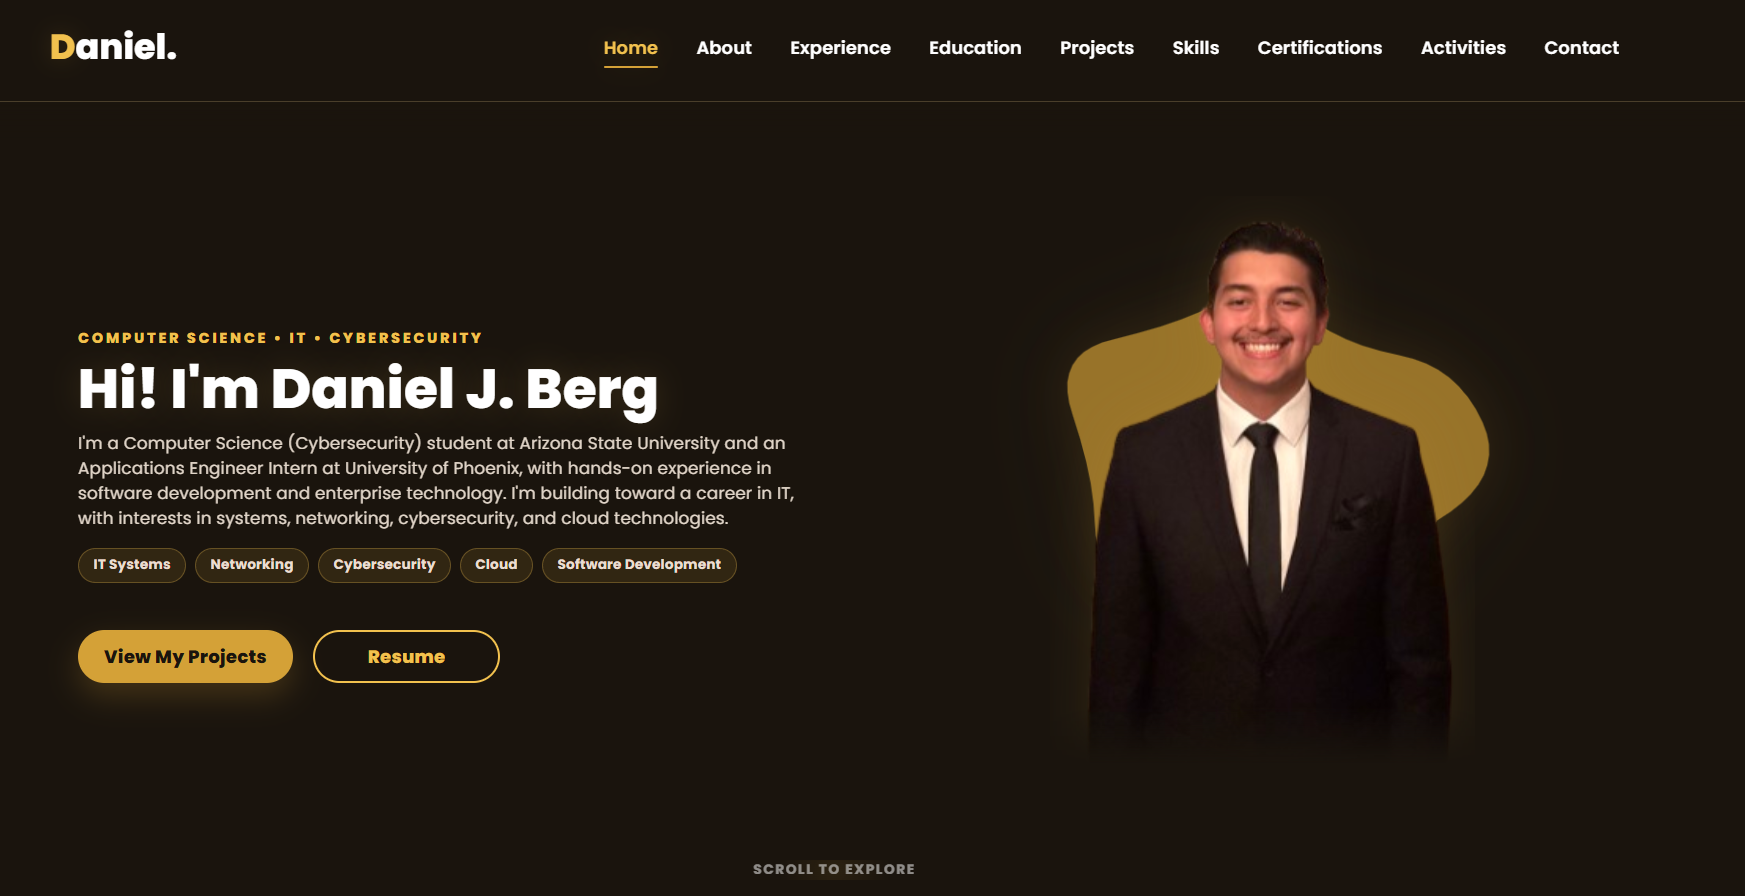
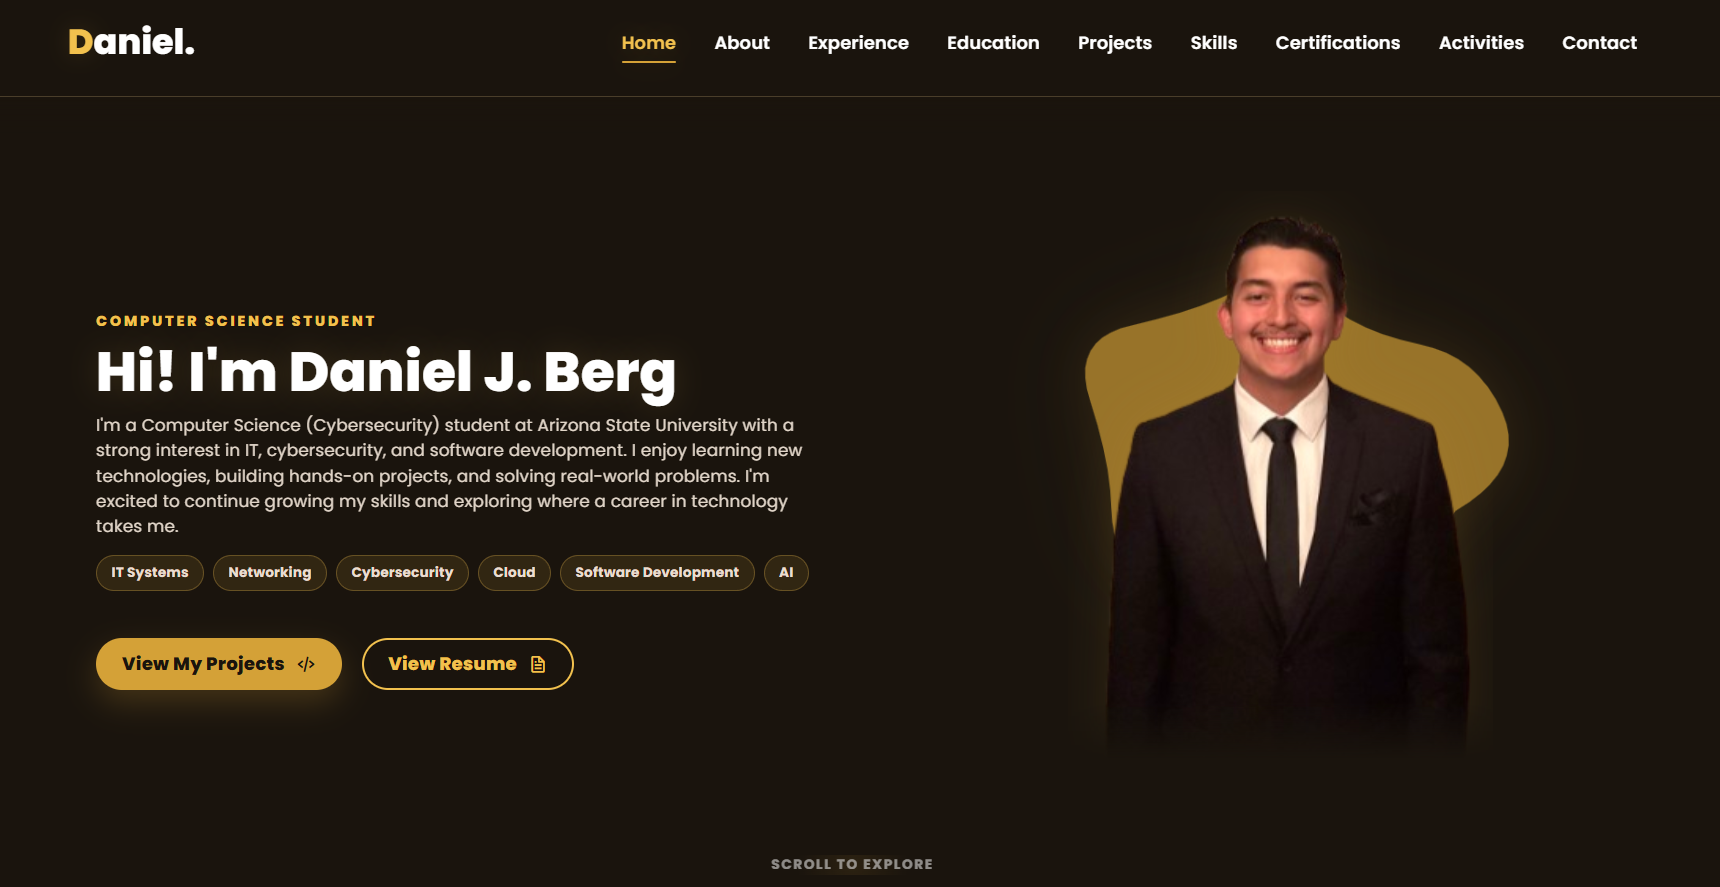
Polish portfolio styling and navigation

diff --git a/script.js b/script.js
@@ -11,11 +11,14 @@ document.addEventListener("DOMContentLoaded", () => {
 
     const menuIcon = document.getElementById("menu-icon");
     const navList = document.querySelector(".navlist");
+    const header = document.querySelector("header");
 
     const headerLinks = document.querySelectorAll('header a[href^="#"]');
     const navLinks = document.querySelectorAll("header .navlist a");
     const sections = document.querySelectorAll("section");
     const projectCards = document.querySelectorAll(".project-card");
+    let currentSection = "";
+    let navigationIntent = null;
     let menuScrollPosition = {
         top: 0,
         left: 0
@@ -67,6 +70,8 @@ document.addEventListener("DOMContentLoaded", () => {
     function openMobileMenu() {
         if (!menuIcon || !navList) return;
 
+        updateActiveSection();
+
         menuScrollPosition = {
             top: window.scrollY,
             left: window.scrollX
@@ -94,51 +99,149 @@ document.addEventListener("DOMContentLoaded", () => {
        03. ACTIVE NAVIGATION SECTION
     ========================================= */
 
-    function updateActiveSection() {
-        if (!sections.length) return;
+    function setActiveSection(sectionId) {
+        if (!sectionId) return;
 
-        let currentSection = "";
-
-        const headerHeight =
-            document.querySelector("header")?.offsetHeight || 0;
-
-        const scrollPosition =
-            window.scrollY + headerHeight + 80;
-
-        sections.forEach(section => {
-            const sectionTop = section.offsetTop;
-            const sectionBottom =
-                sectionTop + section.offsetHeight;
-
-            if (
-                scrollPosition >= sectionTop &&
-                scrollPosition < sectionBottom
-            ) {
-                currentSection = section.id;
-            }
-        });
-
-        if (!currentSection) {
-            currentSection = sections[0]?.id || "";
-        }
+        currentSection = sectionId;
 
         navLinks.forEach(link => {
-            const target = link.getAttribute("href");
-
             link.classList.toggle(
                 "active",
-                target === `#${currentSection}`
+                link.getAttribute("href") === `#${currentSection}`
             );
         });
     }
 
-    function setActiveNavLink(hash) {
-        navLinks.forEach(link => {
-            link.classList.toggle(
-                "active",
-                link.getAttribute("href") === hash
-            );
+    function getCurrentSection() {
+        if (!sections.length) return "";
+
+        const headerHeight =
+            header?.getBoundingClientRect().height || 0;
+
+        const usableViewportHeight =
+            Math.max(0, window.innerHeight - headerHeight);
+
+        const activationLine =
+            headerHeight + Math.min(120, Math.max(48, usableViewportHeight * 0.2));
+
+        let visibleSection = sections[0].id;
+
+        sections.forEach(section => {
+            if (section.getBoundingClientRect().top <= activationLine) {
+                visibleSection = section.id;
+            }
         });
+
+        return visibleSection;
+    }
+
+    function isAtNavigationTarget(target) {
+        if (!target) return false;
+
+        if (target.id === "home") {
+            return window.scrollY <= 1;
+        }
+
+        const headerHeight =
+            header?.getBoundingClientRect().height || 0;
+
+        return Math.abs(
+            target.getBoundingClientRect().top - headerHeight
+        ) <= 1;
+    }
+
+    function finishNavigationIntent() {
+        if (!navigationIntent) return;
+
+        const target = navigationIntent.target;
+        navigationIntent = null;
+        setActiveSection(target.id);
+    }
+
+    function cancelNavigationIntent() {
+        if (!navigationIntent) return;
+
+        navigationIntent = null;
+        updateActiveSection();
+    }
+
+    function updateActiveSection() {
+        if (!sections.length) return;
+
+        if (navigationIntent) {
+            setActiveSection(navigationIntent.target.id);
+
+            if (isAtNavigationTarget(navigationIntent.target)) {
+                finishNavigationIntent();
+            }
+
+            return;
+        }
+
+        setActiveSection(getCurrentSection());
+    }
+
+    function scrollToSection(target, behavior = "auto") {
+        if (!target) return;
+
+        const prefersReducedMotion =
+            window.matchMedia?.("(prefers-reduced-motion: reduce)")
+                .matches;
+
+        const scrollBehavior =
+            behavior === "smooth" && !prefersReducedMotion
+                ? "smooth"
+                : "auto";
+
+        if (target.id === "home") {
+            window.scrollTo({
+                top: 0,
+                left: 0,
+                behavior: scrollBehavior
+            });
+            return;
+        }
+
+        const headerHeight =
+            header?.getBoundingClientRect().height || 0;
+
+        const targetY =
+            target.getBoundingClientRect().top +
+            window.scrollY -
+            headerHeight;
+
+        window.scrollTo({
+            top: Math.max(0, targetY),
+            left: window.scrollX,
+            behavior: scrollBehavior
+        });
+    }
+
+    function cleanHomeUrl() {
+        if (
+            window.history?.replaceState &&
+            (window.location.pathname !== "/" || window.location.hash)
+        ) {
+            window.history.replaceState(null, "", "/");
+        }
+    }
+
+    function navigateFromCurrentUrl(behavior = "auto") {
+        const hash = window.location.hash;
+        const sectionId = hash ? hash.slice(1) : "home";
+        const target = document.getElementById(sectionId) ||
+            document.getElementById("home");
+
+        if (!target) return;
+
+        navigationIntent = null;
+
+        if (target.id === "home") {
+            cleanHomeUrl();
+        }
+
+        scrollToSection(target, behavior);
+        setActiveSection(target.id);
     }
 
     function navigateToSection(link) {
@@ -157,25 +260,23 @@ document.addEventListener("DOMContentLoaded", () => {
          */
         closeMobileMenu();
 
-        if (hash === "#home") {
-            window.scrollTo({
-                top: 0,
-                left: 0,
-                behavior: "smooth"
-            });
-        } else {
-            target.scrollIntoView({
-                behavior: "smooth",
-                block: "start",
-                inline: "nearest"
-            });
-        }
+        navigationIntent = {
+            target
+        };
 
-        if (window.history?.pushState) {
+        setActiveSection(target.id);
+
+        scrollToSection(target, "smooth");
+
+        if (target.id === "home") {
+            cleanHomeUrl();
+        } else if (
+            window.history?.pushState &&
+            window.location.hash !== hash
+        ) {
             window.history.pushState(null, "", hash);
         }
 
-        setActiveNavLink(hash);
     }
 
 
@@ -216,6 +317,18 @@ document.addEventListener("DOMContentLoaded", () => {
 
         if (event.key === "Escape") {
             closeMobileMenu();
+        }
+
+        if (
+            event.key === "ArrowUp" ||
+            event.key === "ArrowDown" ||
+            event.key === "PageUp" ||
+            event.key === "PageDown" ||
+            event.key === "Home" ||
+            event.key === "End" ||
+            event.key === " "
+        ) {
+            cancelNavigationIntent();
         }
     });
 
@@ -619,10 +732,47 @@ document.addEventListener("DOMContentLoaded", () => {
         updateActiveSection
     );
 
+    window.addEventListener("wheel", cancelNavigationIntent, {
+        passive: true
+    });
+
+    window.addEventListener("touchstart", cancelNavigationIntent, {
+        passive: true
+    });
+
+    window.addEventListener("pointerdown", cancelNavigationIntent, {
+        passive: true
+    });
+
+    window.addEventListener("scrollend", () => {
+        if (!navigationIntent) {
+            updateActiveSection();
+            return;
+        }
+
+        if (isAtNavigationTarget(navigationIntent.target)) {
+            finishNavigationIntent();
+        } else {
+            cancelNavigationIntent();
+        }
+    });
+
+    window.addEventListener("popstate", () => {
+        navigationIntent = null;
+        closeMobileMenu();
+        navigateFromCurrentUrl("auto");
+    });
+
+    window.addEventListener("hashchange", () => {
+        navigationIntent = null;
+        navigateFromCurrentUrl("auto");
+    });
+
 
     /* =========================================
        09. INITIALIZE
     ========================================= */
 
+    navigateFromCurrentUrl("auto");
     updateActiveSection();
 });

diff --git a/index.html b/index.html
@@ -169,7 +169,7 @@
 
         <nav aria-label="Main navigation">
             <ul class="navlist">
-                <li><a href="#home" class="active">Home</a></li>
+                <li><a href="#home">Home</a></li>
                 <li><a href="#about">About</a></li>
                 <li><a href="#experience">Experience</a></li>
                 <li><a href="#education">Education</a></li>
@@ -544,7 +544,7 @@
             <article class="education-card education-secondary-card">
                 <div class="education-school-header">
                     <img
-                        src="/assets/images/education/mdn.png"
+                        src="assets/images/education/mdn.png"
                         alt="Marcos de Niza High School logo"
                         class="education-logo education-secondary-logo"
                         loading="lazy"

diff --git a/style.css b/style.css
@@ -12515,3 +12515,25 @@ section {
         grid-template-columns: 1fr;
     }
 }
+
+/* Keep the shared header offset aligned with the hamburger breakpoint. */
+@media (max-width: 1200px) {
+    :root {
+        --current-header-height: var(--mobile-header-height);
+    }
+
+    body {
+        padding-top: var(--current-header-height);
+    }
+}
+
+/* Subtle section settling for mouse/trackpad users; touch scrolling stays free. */
+@media (hover: hover) and (pointer: fine) and (prefers-reduced-motion: no-preference) {
+    html {
+        scroll-snap-type: y proximity;
+    }
+
+    section {
+        scroll-snap-align: start;
+    }
+}
